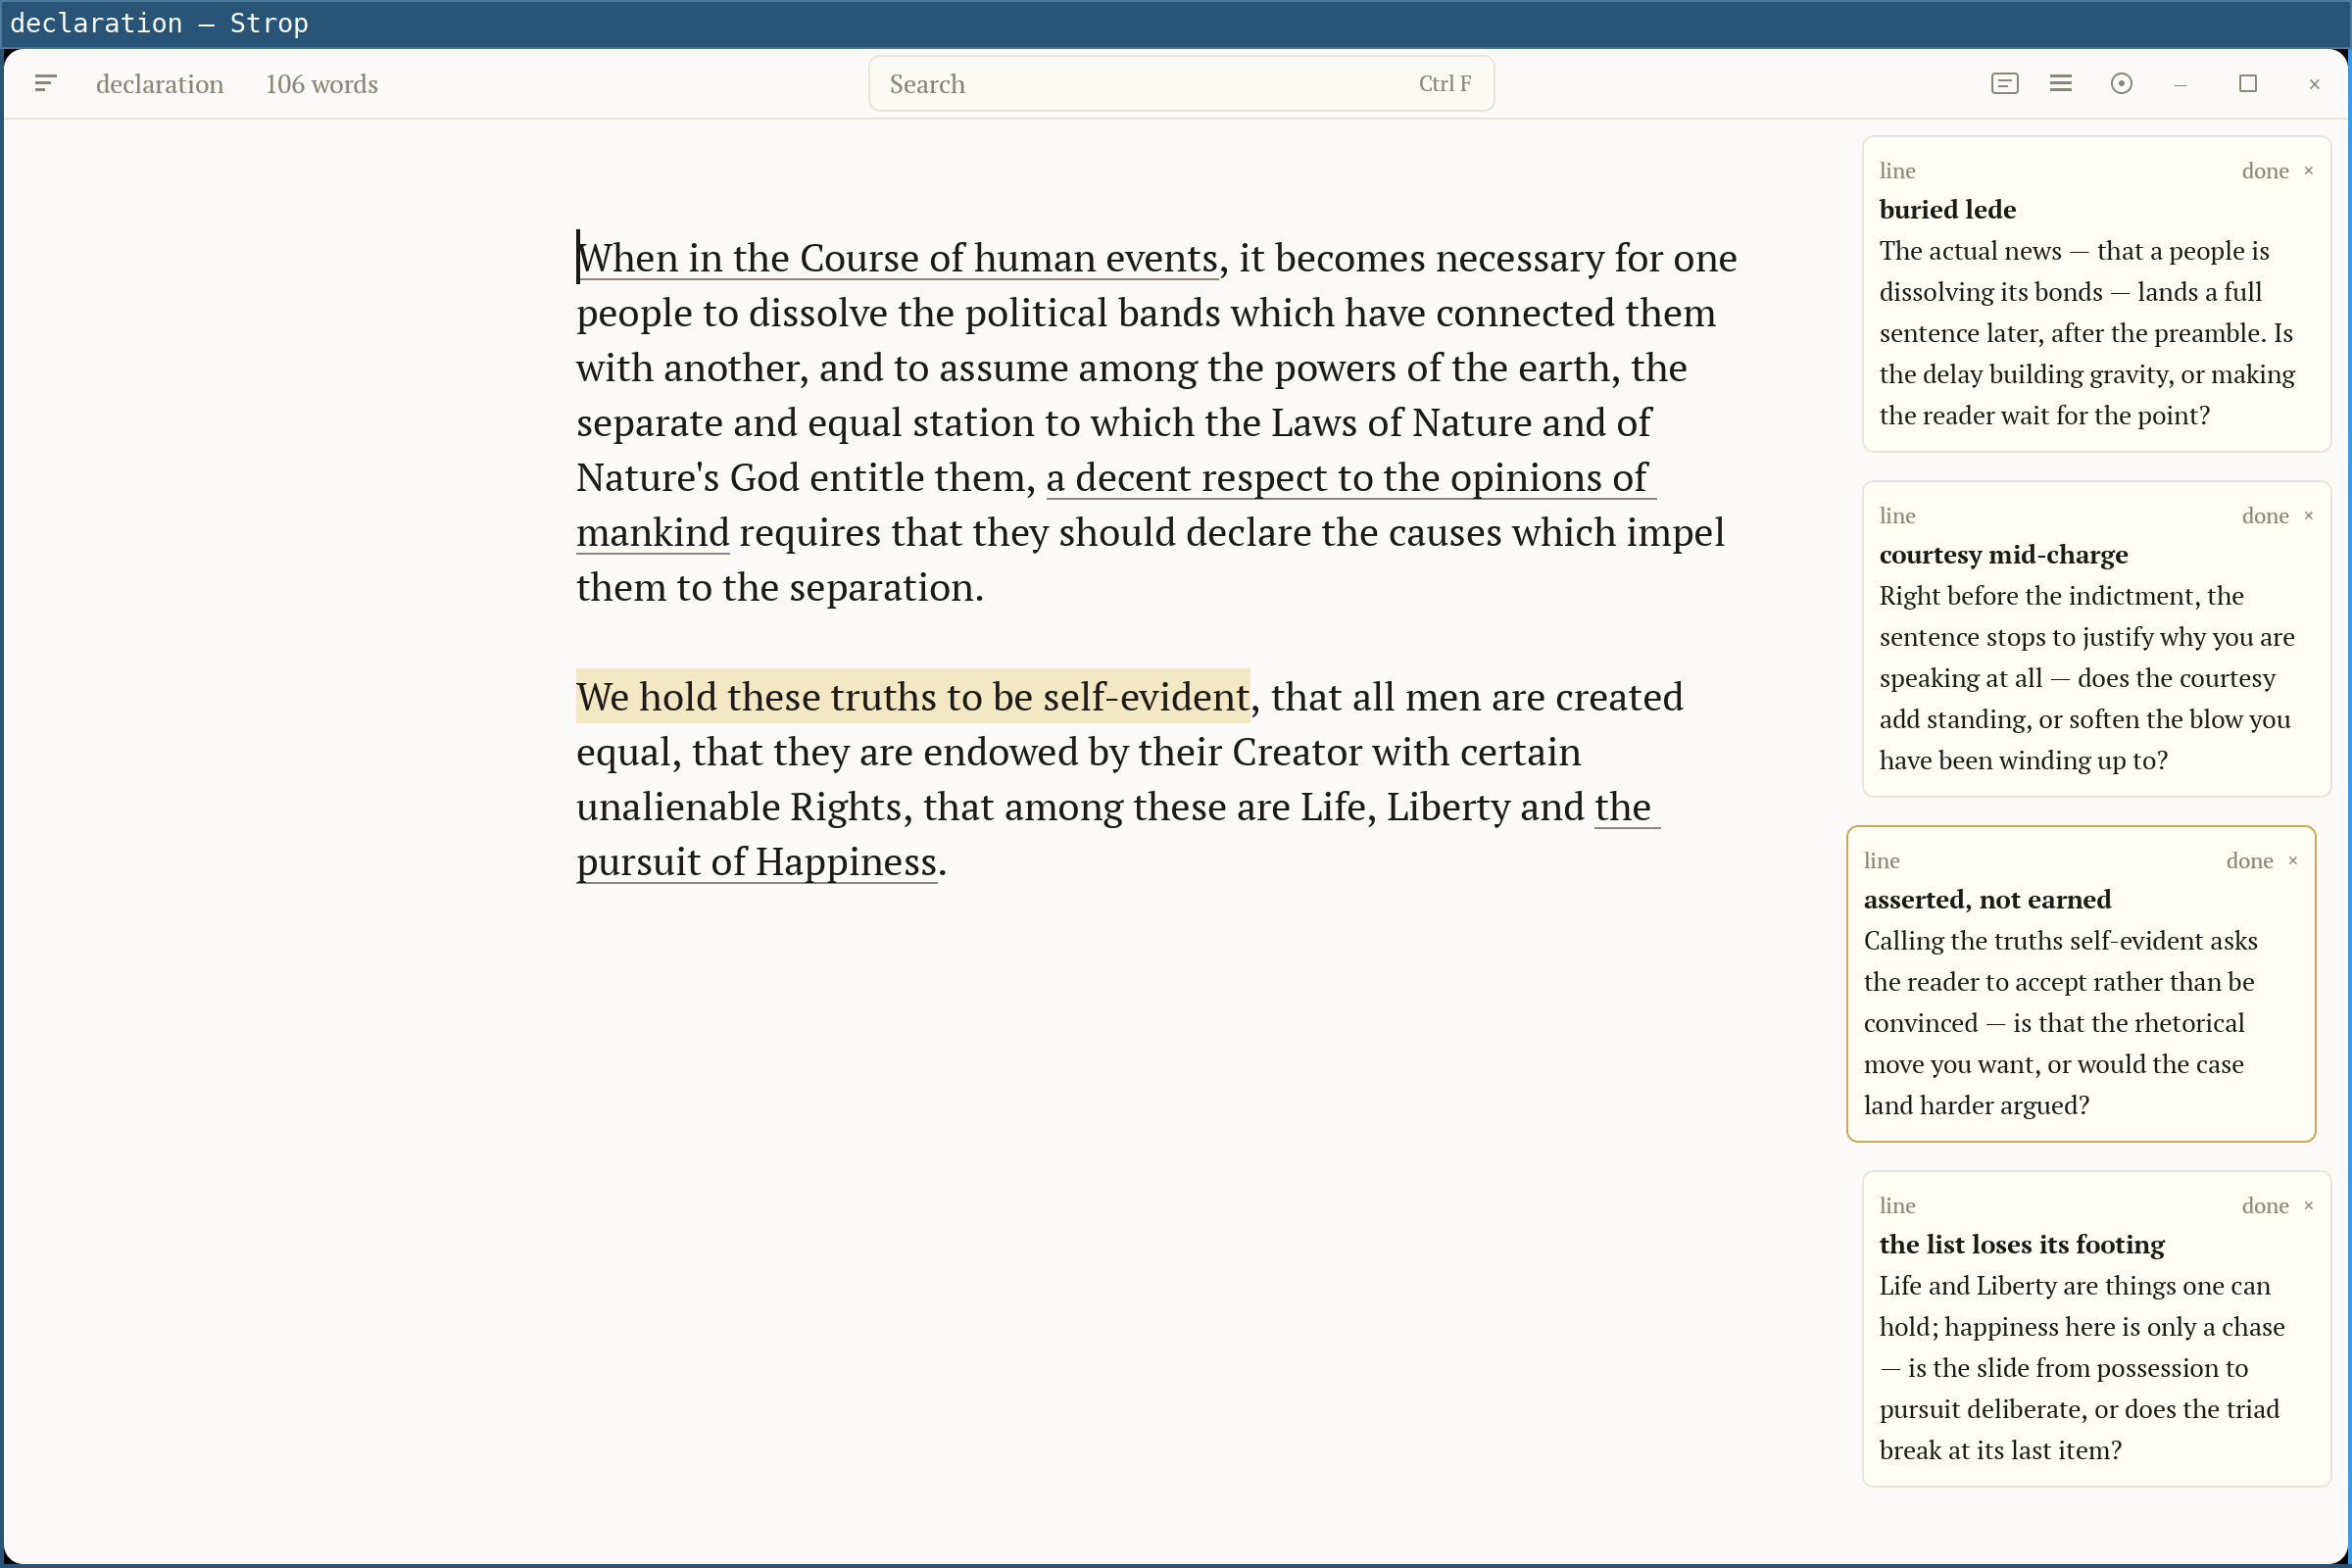
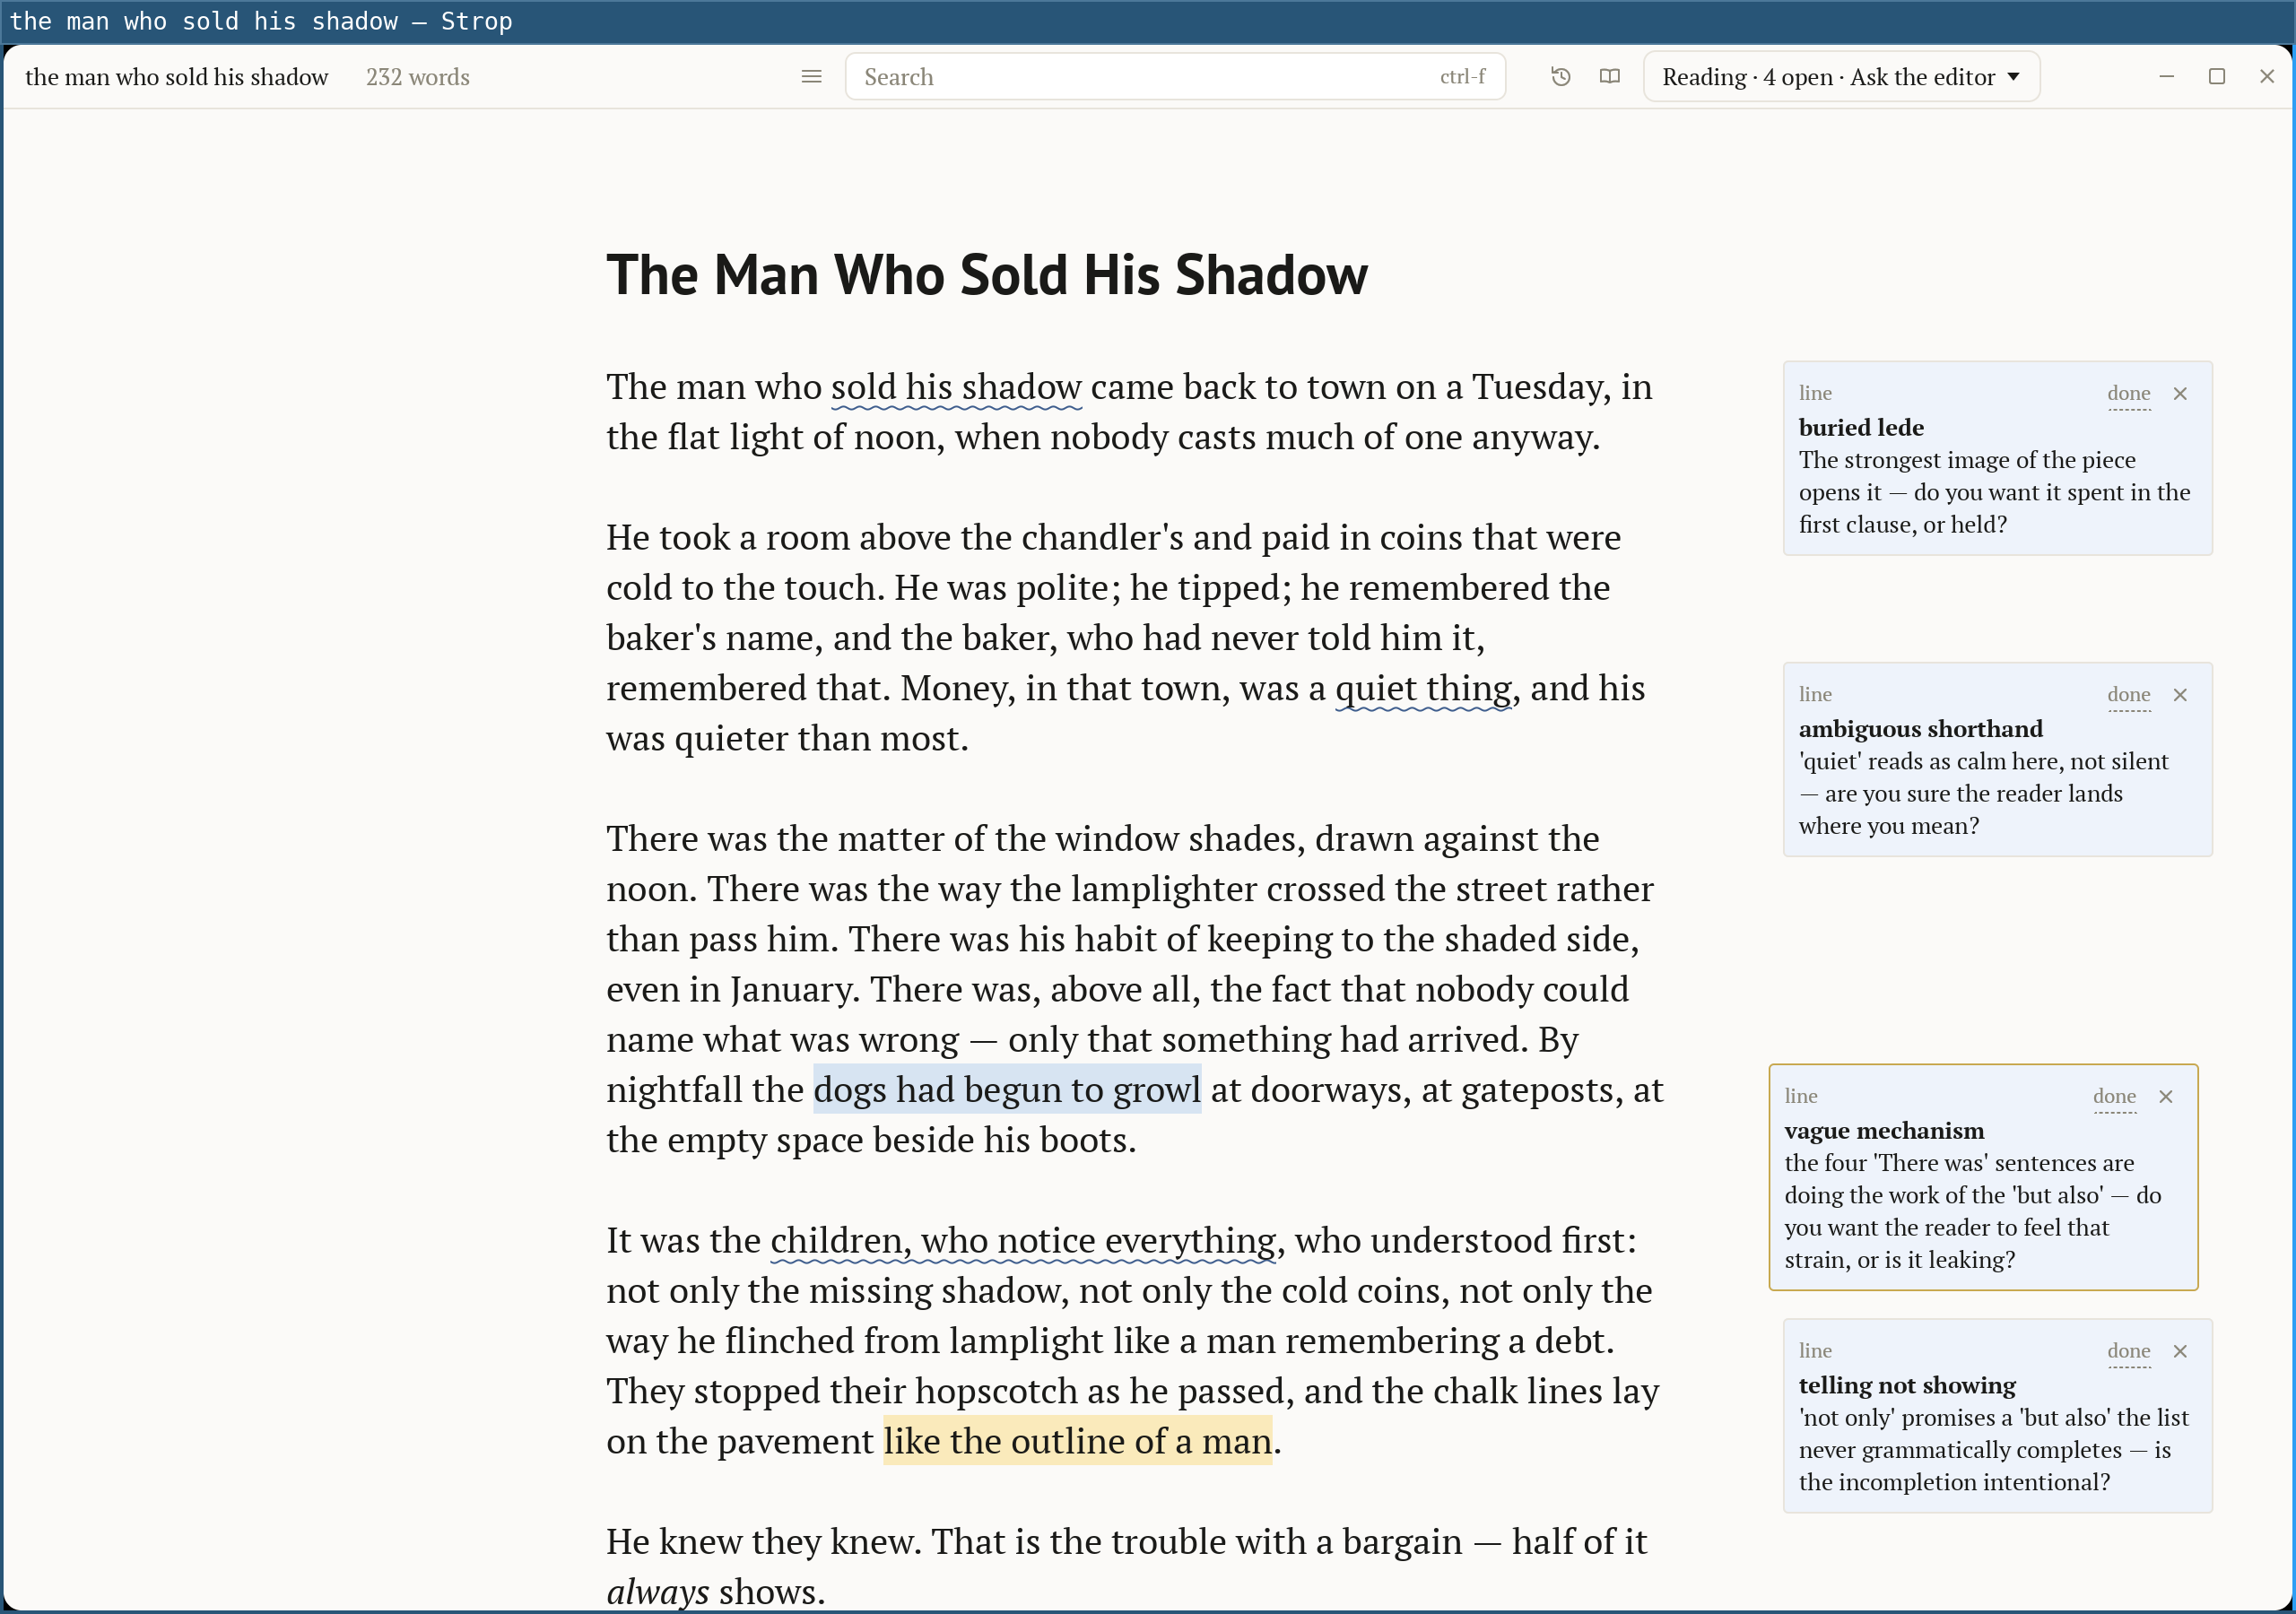
Prepare the v0.2.0 release
Version 0.1.1 -> 0.2.0; the CHANGELOG gains the 0.2.0 record distilled
from the 154 commits since v0.1.1; the README catches up with the
interface release (history strip, compost/graveyard, flanks, the editor
button, cold read, inline images, multilingual reads) and the new
platform story (macOS text fixed, tester-verified); the hero screenshot
is reshot on 0.2.0 chrome — the story the demo diagnoses were always
pointing at, finally written down.

diff --git a/CHANGELOG.md b/CHANGELOG.md
@@ -7,6 +7,123 @@ versions may still break things).
 
 ## [Unreleased]
 
+## [0.2.0] — 2026-07-15
+
+The interface release. The writing–editing–checkpointing loop that 0.1 kept in
+a sidebar got its real shape: a scrubbable history strip, places for text that
+isn't (yet, or anymore) manuscript, a formatting toolbar that answers to the
+selection, and a book-typography reading room. Underneath it, the engine
+stopped stalling on real, long-lived documents. macOS text rendering is fixed —
+this is the first release verified by an outside macOS tester. Binaries are
+still unsigned, and Linux (Wayland) remains the primary runtime-tested platform.
+
+### Added
+- **The history strip** — the history sidebar grew into a scrubbable strip
+  along the top edge of the page: drag it like a seek bar to move through the
+  document's whole past, at one fixed time scale, with your absences shown as
+  quiet recessed wells rather than gaps to feel guilty about. Restoring an old
+  version is one click, and always undoable.
+- **Compost and graveyard** — two places for words that aren't manuscript. The
+  compost rail (left) is where ideas, clippings and todos live until they're
+  promoted into the draft; the graveyard (document footer) automatically
+  catches every paragraph you cut, so deletion is never a silent loss — "Put
+  back" returns it whole, with its own formatting. Both are plain text:
+  editable, selectable, formattable.
+- **Selection flanks** — select anything (mouse *or* keyboard) and a small
+  formatting grid appears beside it — bold, italic, highlight, headings, link —
+  with selection actions on the other flank: add a note, set aside, send to
+  the graveyard, ask the editor about this. `ctrl-.` jumps into it from the
+  keyboard.
+- **The editor button** — one titlebar home for everything AI: request a
+  believing, developmental or line read, see what the editor is doing in plain
+  words — **Reading** or **Away** — and find results counted honestly
+  ("1 read ready", "0 new") instead of appearing as mystery badges.
+- **The omnibar** — the top-center control is now a real search field: text
+  search, heading jump (`@`), commands (`>`), results hanging live from the
+  field's own edge.
+- **Margin cards, packed and paced** — your own margin notes and the editor's
+  cards now share the right margin, visually distinct (warm vs. cool), packed
+  to never overlap, and paced: results arriving mid-sentence wait for a lull
+  in your typing before they animate in, and an over-full margin recedes cards
+  in place to one line instead of hiding them. Off-screen cards show as
+  clickable counts. Honest motion: your own material never fades or slides.
+- **Cold read** — a reading room for your finished draft: book typography
+  (URW Bookman), justified and properly hyphenated, no caret, pages that flip
+  instead of scroll. You read, and file reactions in the margin — the room
+  keeps you from fiddling with sentences when the job is judging the whole.
+- **Inline images, done right** — pasted or dropped images are furniture now:
+  ordinary text editing can't merge prose onto them, clone them, or silently
+  delete them; removing one is a deliberate, staged act. The caption is real
+  prose on the image's own line, not a hidden field.
+- **The editor speaks your language** — an editorial read now detects the
+  manuscript's dominant language and writes its margin commentary in it
+  (quotes stay byte-exact). The reply pipeline recovers valid cards from
+  partially malformed model output, runs one bounded repair round for the
+  rest, and reports failures truthfully (refusal, length stop, invalid JSON)
+  instead of guessing.
+
+### Changed
+- **History is instant.** Versions record their full state when sealed instead
+  of being replayed on demand: opening history on a 13-checkpoint document
+  went from 71 s to 190 µs, and restore is immediate even on old files.
+- **Saves got honest.** A save with no changes writes zero bytes; saving runs
+  off the UI thread so typing never stalls behind it; a failed final save
+  keeps the editor alive and recoverable instead of losing the last words.
+- **One color language.** Warm amber is always you, cool blue is always the
+  machine, drained neutral is stale, red is reserved for errors, sage for a
+  goal reached — across cards, strip, selection and flashes.
+- **Highlight and strikethrough now mark a fixed extent** — typing at their
+  edge no longer grows them (bold/italic/underline still extend as you type,
+  matching every other editor). If highlights seemed to "follow" your typing
+  before, that was a bug, not a feature.
+- **Every text field behaves the same** — note composer, rename, session goal,
+  checkpoint name, reaction input: real caret and selection, commit on a
+  deliberate gesture, and no field silently closes because focus blinked
+  (Alt-Tab and keyboard-layout switches no longer eat your half-written note).
+- **The margin scrolls on its own** when it overflows, without moving the page.
+
+### Fixed
+- **macOS: text was invisible** (#10). The build was missing the `font-kit`
+  feature on `gpui_platform`, so macOS shaped text but painted no glyphs —
+  caret and selection moved over an empty page. One feature flag; verified by
+  the reporting tester on a real Mac.
+- **Multi-second stalls on real documents**, three separate causes, all
+  variants of treating history as a routine read: the idle-save asset scan
+  (6.8 s → 24 ms), history-sidebar open (71 s → 190 µs), and a hidden
+  formatting-marks cost that taxed open and save (4.7 s for 5.7 KB of prose —
+  gone).
+- **A 4.8 MB file for 5.7 KB of prose** — idle saves rewrote every channel
+  every time; now guarded by change fingerprints, and bloated files from
+  0.1.x compact themselves at open (4.77 MB → 82 KB, cold open 5.8 s → 4.9 ms,
+  with a `.pre-compact.bak` safety copy).
+- **Letter shortcuts under non-Latin keyboard layouts** (e.g. `Ctrl+Shift+P`
+  on Cyrillic) — fixed in the gpui fork, now on all platforms.
+- **Glyph corruption after a display-scale change** (moving the window to a
+  differently-scaled monitor) — fixed in the gpui fork.
+- **Editing could corrupt images**: Delete could merge text onto a picture's
+  line, Enter could clone the picture onto both halves of a split, Backspace
+  could silently swallow it. All walled off by the furniture model.
+- **A margin-note draft could leak onto an AI card**, and the composer showed
+  only the first line of a multi-line note.
+- **Redo wasn't invalidated on every path that should clear it.**
+- **U+2028 in imported Markdown discarded block formatting** — the line
+  separator is now modeled as a real hard break; import and export agree on
+  what a hard break is.
+
+### Internal
+- **gpui fork rebased onto Zed stable v1.10.2** (from a June main snapshot),
+  carrying four patches: Windows layout-independent letter keys, per-glyph
+  scale context (the Wayland scale fix), image-format trimming, and opt-in
+  SVG text rendering — the last lets Strop drop `rustybuzz` entirely
+  (RUSTSEC-2026-0206). See `docs/gpui-fork.md`.
+- A separate `dist` build profile (thin LTO, stripped), a trimmed dependency
+  tree, tightened `cargo-deny`, Dependabot now watching actions and cargo,
+  and faster CI on all three platforms.
+- The undo engine shares side-state structurally (`Arc` + copy-on-write):
+  the 5,000-block stress fixture went from ten million map clones to one
+  live allocation. In-session undo depth remains uncapped; only the
+  persisted cross-session tail was trimmed.
+
 ## [0.1.1] — 2026-06-19
 
 Windows papercuts and layout-independent shortcuts. Still unsigned, and only

diff --git a/README.md b/README.md
@@ -10,7 +10,7 @@
 
 <p align="center">
   <img src="assets/screenshot.png" width="820"
-       alt="Strop diagnosing the Declaration of Independence: sharp editorial queries anchored in the right margin, never a rewrite.">
+       alt="Strop reading a short story: four editorial queries anchored in the right margin — named problems asked as questions, never a rewrite.">
 </p>
 
 In the *advanced chess* Garry Kasparov championed, a human paired with a machine
@@ -24,18 +24,21 @@ working as a question, and never rewrites a line.
 
 ## What it does
 
-- **An editor that diagnoses, never prescribes.** An explicit command (or a shortcut pressed) runs an editorial pass at a depth you choose — developmental, line, or copy. It returns named problems as questions in the margin ("Is this the real beginning?"), never replacement text. Dismiss one and it stays gone.
-- **Your voice, not the model's.** Bring your own LLM — any OpenAI-compatible API, including a local Ollama. A pass only ever sends text to the provider you pick; point it at a local model and nothing leaves your machine.
-- **A calm canvas.** Typing-first, with typography handled as you write — language-aware quotes, em dashes, the right non-breaking spaces — and any substitution it makes is undone with a single keystroke.
-- **History you own.** `.strop` files are auto-saving and always carry the whole editing history. Don't lose Undo after restarts, save named snapshots for future reference, easily compare between revisions.
+- **An editor that diagnoses, never prescribes.** One button (or a shortcut) asks the editor for a read at the depth you choose — developmental, line, or copy. It returns named problems as questions in the margin ("Is this the real beginning?"), never replacement text; a believing read tells you what already works instead. Dismiss a card and it stays gone. The commentary comes in your manuscript's language.
+- **Your voice, not the model's.** Bring your own LLM — any OpenAI-compatible API, including a local Ollama. A read only ever sends text to the provider you pick; point it at a local model and nothing leaves your machine.
+- **A calm canvas.** Typing-first, with typography handled as you write — language-aware quotes, em dashes, the right non-breaking spaces — and any substitution undone with a single keystroke. Select something and the formatting toolbar comes to the selection; images sit in the text as furniture ordinary editing can't corrupt.
+- **History you own.** `.strop` files auto-save and carry the whole editing history — Undo works after a restart. A scrubbable strip along the top of the page moves through the document's past like a seek bar; named versions restore in a click, and restoring is itself undoable.
+- **Nothing is lost.** A compost rail keeps the ideas and clippings that aren't manuscript yet; every paragraph you cut lands in the graveyard at the document's foot, one "Put back" from returning whole.
+- **A room for reading.** When the draft is done, a cold read lays it out in book typography — justified, hyphenated, paged — with no caret to fiddle with; you read, and file reactions in the margin.
 - **Plain, portable files.** One `.strop` file per document; Markdown in and out.
 
 ## Where it's at
 
-Strop is early, and built in the open. **[v0.1.0](https://github.com/kirushik/strop/releases/latest)** is the first rough cut — see the [changelog](CHANGELOG.md). Only **Linux (Wayland)** is runtime-tested; the macOS and Windows binaries build and pass a headless launch smoke but are otherwise unverified and unsigned. Building from source is the supported path: see **[DEVELOPMENT.md](DEVELOPMENT.md)**.
+Strop is early, and built in the open. **[v0.2.0](https://github.com/kirushik/strop/releases/latest)** is the second cut — the release where the interface grew into itself; see the [changelog](CHANGELOG.md). **Linux (Wayland)** is the primary runtime-tested platform; macOS text rendering was fixed in this release and verified by an outside tester, and Windows binaries build and pass a headless launch smoke. All binaries are unsigned — Gatekeeper and SmartScreen will grumble. Building from source is the supported path: see **[DEVELOPMENT.md](DEVELOPMENT.md)**.
 
 ## License
 
 [GPL-3.0-or-later](COPYING). Built on Zed's
 [gpui](https://github.com/zed-industries/zed); bundled PT fonts are © ParaType
-under the SIL Open Font License. Attribution in [NOTICE](NOTICE).
+under the SIL Open Font License, and URW Bookman ships under AGPL-3.0 with the
+font-embedding exception. Attribution in [NOTICE](NOTICE).

diff --git a/scripts/fixtures/hero-shadow.md b/scripts/fixtures/hero-shadow.md
@@ -1,0 +1,11 @@
+# The Man Who Sold His Shadow
+
+The man who sold his shadow came back to town on a Tuesday, in the flat light of noon, when nobody casts much of one anyway.
+
+He took a room above the chandler's and paid in coins that were cold to the touch. He was polite; he tipped; he remembered the baker's name, and the baker, who had never told him it, remembered that. Money, in that town, was a quiet thing, and his was quieter than most.
+
+There was the matter of the window shades, drawn against the noon. There was the way the lamplighter crossed the street rather than pass him. There was his habit of keeping to the shaded side, even in January. There was, above all, the fact that nobody could name what was wrong — only that something had arrived. By nightfall the dogs had begun to growl at doorways, at gateposts, at the empty space beside his boots.
+
+It was the children, who notice everything, who understood first: not only the missing shadow, not only the cold coins, not only the way he flinched from lamplight like a man remembering a debt. They stopped their hopscotch as he passed, and the chalk lines lay on the pavement ==like the outline of a man==.
+
+He knew they knew. That is the trouble with a bargain — half of it *always* shows.